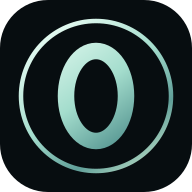
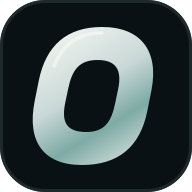
feat(brand): 티타늄 O 아이콘 패밀리와 캐시 버전 갱신

diff --git a/tests/metadata.spec.ts b/tests/metadata.spec.ts
@@ -1,10 +1,11 @@
 import { expect, test } from '@playwright/test'
 import { readFileSync } from 'node:fs'
+import { createHash } from 'node:crypto'
 import { resolve } from 'node:path'
 
 const origin = 'https://aether-studio-nu.vercel.app/'
 const html = readFileSync(resolve('index.html'), 'utf8')
-const readAsset = (path: string) => readFileSync(resolve('public', path.replace(/^\//, '')))
+const readAsset = (path: string) => readFileSync(resolve('public', new URL(path, origin).pathname.replace(/^\//, '')))
 const meta = (name: string) => {
   const tags = html.match(/<meta\b[^>]*>/g) ?? []
   const tag = tags.find(tag => tag.includes(`name="${name}"`) || tag.includes(`property="${name}"`))
@@ -55,6 +56,8 @@ test('@interaction shared images and icon declarations point to real files with 
   expect(meta('og:image')).toBe(`${origin}og-image.jpg`)
   expect(meta('twitter:image')).toBe(meta('og:image'))
   const image = readAsset('/og-image.jpg')
+  // The approved share card is independent of this favicon redesign.
[1 lines of base64/hex data omitted]
   const dimensions = jpegSize(image)
   expect(dimensions).toEqual([Number(meta('og:image:width')), Number(meta('og:image:height'))])
   expect(dimensions).toEqual([1200, 630])
@@ -64,6 +67,12 @@ test('@interaction shared images and icon declarations point to real files with 
   expect(manifest.start_url).toBe('/')
   expect(manifest.scope).toBe('/')
   expect(manifest.display).toBe('browser')
+  for (const tag of html.match(/<link\b[^>]*>/g) ?? []) {
+    if (!/rel="(?:icon|apple-touch-icon|manifest)"/.test(tag)) continue
+    const href = tag.match(/href="([^"]+)"/)?.[1]
+    expect(href).toBeTruthy()
+    expect(readAsset(href!).length).toBeGreaterThan(0)
+  }
   for (const icon of manifest.icons) {
     expect(pngSize(readAsset(icon.src)).join('x')).toBe(icon.sizes)
   }

diff --git a/index.html b/index.html
@@ -12,12 +12,12 @@
     />
     <meta name="robots" content="index, follow, max-image-preview:large" />
     <link rel="canonical" href="https://aether-studio-nu.vercel.app/" />
-    <link rel="icon" href="/favicon.ico" sizes="16x16 32x32 48x48" />
-    <link rel="icon" type="image/svg+xml" sizes="any" href="/favicon.svg" />
-    <link rel="icon" type="image/png" sizes="32x32" href="/favicon-32x32.png" />
-    <link rel="icon" type="image/png" sizes="16x16" href="/favicon-16x16.png" />
-    <link rel="apple-touch-icon" sizes="180x180" href="/apple-touch-icon.png" />
-    <link rel="manifest" href="/site.webmanifest" />
+    <link rel="icon" href="/favicon.ico?v=2" sizes="16x16 32x32 48x48" />
+    <link rel="icon" type="image/svg+xml" sizes="any" href="/favicon.svg?v=2" />
+    <link rel="icon" type="image/png" sizes="32x32" href="/favicon-32x32.png?v=2" />
+    <link rel="icon" type="image/png" sizes="16x16" href="/favicon-16x16.png?v=2" />
+    <link rel="apple-touch-icon" sizes="180x180" href="/apple-touch-icon.png?v=2" />
+    <link rel="manifest" href="/site.webmanifest?v=2" />
     <meta property="og:type" content="website" />
     <meta property="og:site_name" content="Aether Studio" />
     <meta property="og:locale" content="en_US" />

diff --git a/docs/metadata.md b/docs/metadata.md
@@ -6,7 +6,7 @@
 | --- | --- | --- |
 | 검색·브라우저 제목 | `index.html` | 제목, 설명, 언어, canonical, robots, 색상 |
 | 링크 공유 | `index.html`, `public/og-image.jpg` | Open Graph 및 Twitter 대형 카드, 이미지 대체 텍스트, 1200 × 630 JPEG |
-| 탭 아이콘 | `public/favicon.svg`, `favicon.ico`, `favicon-16x16.png`, `favicon-32x32.png` | 대문자 O와 원형 링을 사용한 독자적 벡터 도형. ICO에는 16·32·48px 포함 |
+| 탭 아이콘 | `public/favicon.svg`, `favicon.ico`, `favicon-16x16.png`, `favicon-32x32.png` | 기울어진 O 모노그램과 절제된 티타늄 그라데이션. ICO에는 16·32·48px 포함 |
 | 홈 화면 아이콘 | `public/apple-touch-icon.png`, `icon-192.png`, `icon-512.png`, `icon-maskable-512.png` | 180px Apple 아이콘 및 일반·maskable 아이콘 |
 | 웹앱 정보 | `public/site.webmanifest` | 이름·설명·시작 주소·색상·아이콘. 현재 서비스 수준에 맞춰 `display: browser` 사용 |
 | 검색 수집 | `public/robots.txt`, `public/sitemap.xml` | 공개 단일 페이지 `/`만 수록. 별도 페이지가 아닌 스크롤 앵커·배포 확인 쿼리는 제외 |
@@ -16,9 +16,19 @@
 
 ## 공유 카드와 아이콘
 
-![실제 Aether 숲 캡처를 포함한 공유 카드](../public/og-image.jpg)
+![실제 Aether 포레스트 캡처를 포함한 공유 카드](../public/og-image.jpg)
 
 공유 카드는 `docs/screenshots/living/after-000.jpg`의 **실제 실행 화면**을 새 SVG 레이아웃 안에 배치하여 만들었다. 카드의 브랜딩·텍스트·아이콘은 신규 제작이며 Active Theory의 이미지나 로고를 사용하지 않는다. 원본 스크린샷 파일은 변경하지 않는다. 공유 카드에 포함된 화면은 PR #9의 구현 상태다.
+
[1 lines of base64/hex data omitted]
+
+파비콘은 가는 외곽 링을 제거하고 기울어진 O 하나에 집중했다. 넓은 카운터(글자 내부 여백), 비대칭 곡면, 흑연색 배경과 낮은 채도의 반사광으로 16px 탭 크기에서도 형태를 구분한다. Apple·일반 앱 아이콘은 같은 SVG에서 생성하고, maskable 아이콘은 배경을 전체 영역에 채우고 O를 중앙 안전 영역에 배치한다. `/favicon.svg?v=2`와 같이 HTML·manifest의 아이콘 URL에 동일한 버전을 붙여 이전 자산 캐시와 구분한다.
+
+| 대상 | 변경 전 | 변경 후 | 판단 포인트 |
+| --- | --- | --- | --- |
+| 아이콘 패밀리 | ![기존 아이콘 실크기 렌더](screenshots/brand/before.png) | ![새 아이콘 실크기 렌더](screenshots/brand/after.png) | 16·32·64·180px, 밝고 어두운 배경, 원형·둥근 사각형 마스크 |
+
+위 이미지는 원본 SVG·PNG 자산을 같은 1080×680, DPR 1의 Chromium 본문에서 실제 크기로 렌더한 비교다. 브라우저 탭 바 캡처나 운영체제 UI 모형이 아니다. [자산 렌더 조건과 해시](screenshots/brand/manifest.json)를 함께 보존한다.
 
 아이콘과 JPEG는 저장소에 포함되어 배포 시 이미지 변환 서비스, 별도 외부 저장소 또는 추가 런타임 요청 없이 제공된다. 생성에 사용한 `sharp`는 선택 개발 도구이며 앱 의존성에 포함되지 않는다.
 
@@ -29,11 +39,13 @@ npm install --no-save --package-lock=false sharp
 node scripts/generate-metadata.mjs
 ```
 
+기본 실행은 아이콘 패밀리만 생성하며 기존 OG 이미지는 쓰지 않는다. 공유 카드까지 재생성할 때만 `--share-card`를 명시한다. 이 옵션은 현재 SVG와 캡처로 카드를 다시 렌더하므로 기존 바이트 보존 작업에는 사용하지 않는다.
+
 이미 설치된 `sharp`를 사용할 경우 `node scripts/generate-metadata.mjs --sharp-module /absolute/path/to/sharp`로 지정할 수 있다. 재생성은 브라우저나 WebGL을 실행하지 않는다. SVG 도형과 텍스트 레이아웃, 캡처 경로는 생성 스크립트에서 관리한다. 파일명 또는 운영 도메인을 바꾸면 `index.html`, JSON-LD, robots, sitemap과 검증의 기준 주소도 함께 바꾼다.
 
 ## 검증과 운영 한계
 
-`tests/metadata.spec.ts`는 브라우저를 띄우지 않고 초기 HTML의 canonical·OG·Twitter·JSON-LD 정합성, 공유 이미지 실제 크기·용량, manifest·아이콘 파일의 실제 픽셀 크기, ICO 내부 엔트리를 확인한다. 일반 빌드가 정적 자산을 `dist`로 복사하며, 운영 배포 후에는 자산 응답 상태와 Content-Type을 별도로 확인한다.
+`tests/metadata.spec.ts`는 브라우저를 띄우지 않고 초기 HTML의 canonical·OG·Twitter·JSON-LD 정합성, 승인된 OG 이미지의 SHA-256·크기·용량, 버전 쿼리를 포함한 HTML 아이콘 링크의 실제 파일, manifest·아이콘 픽셀 크기, ICO 내부 엔트리를 확인한다. 일반 빌드가 정적 자산을 `dist`로 복사하며, 운영 배포 후에는 자산 응답 상태와 Content-Type을 별도로 확인한다.
 
 검색 결과 반영 시점과 카카오톡·메신저·소셜 서비스의 이전 공유 카드 캐시는 각 서비스가 결정한다. 메타데이터를 바꾼 즉시 이미 전송된 메시지가 갱신되는 것은 보장하지 않는다. 단일 페이지에 대응하는 WebSite 데이터이며 검색 특수 노출을 보장하지 않는다.
 
